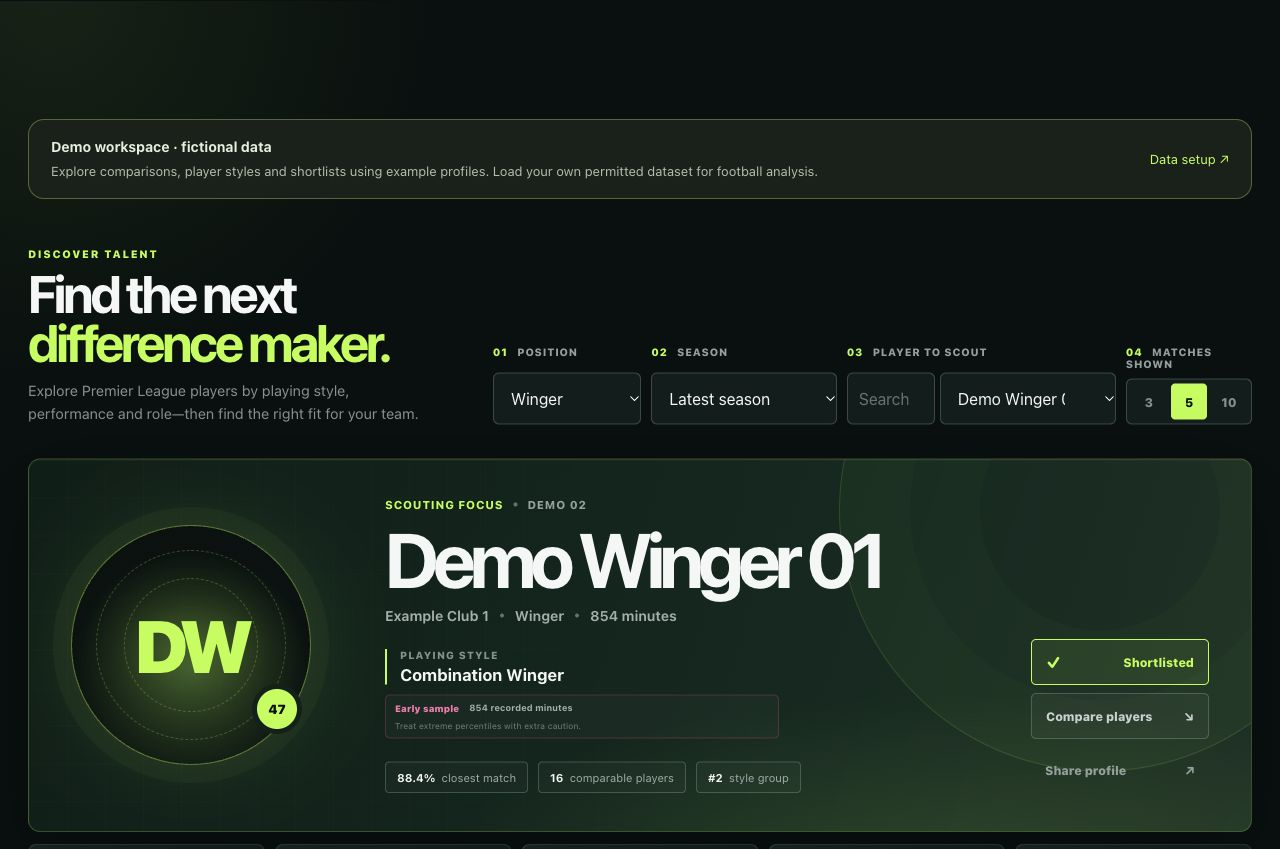
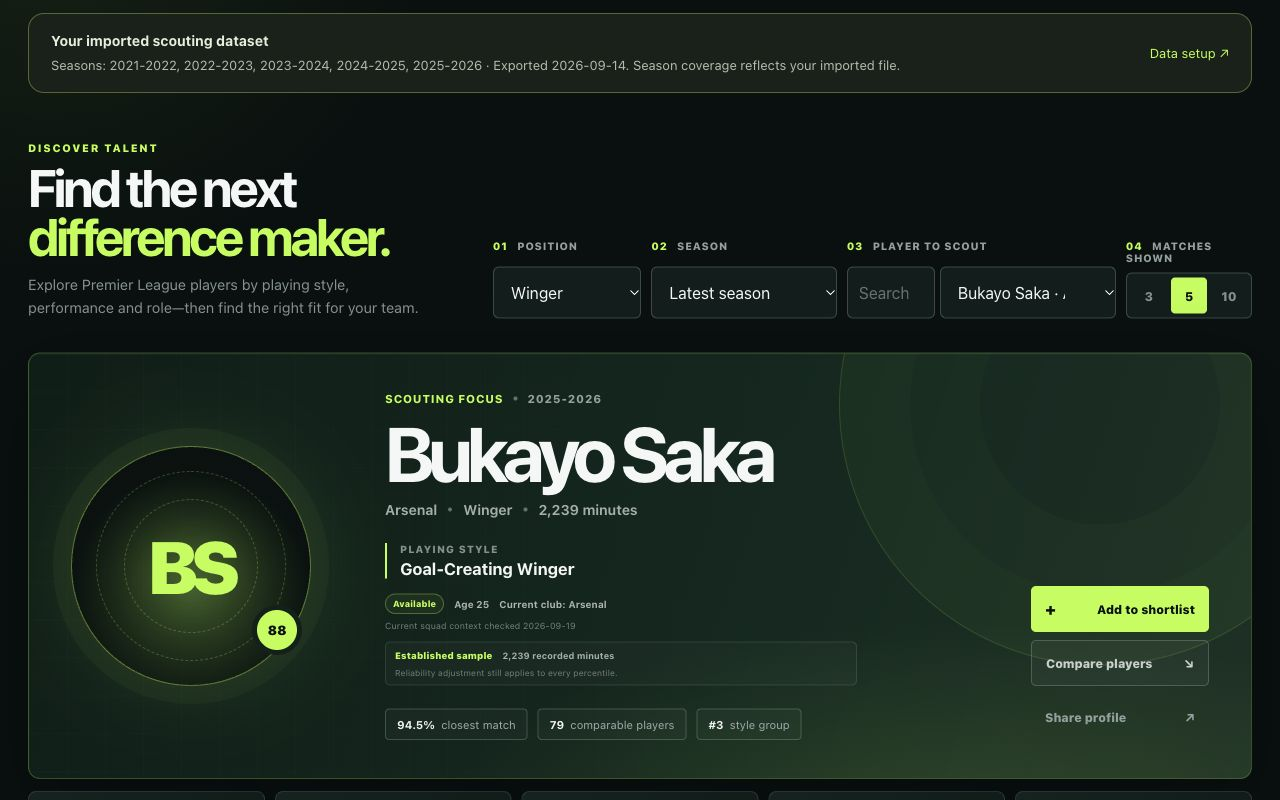
Demonstrate scouting workflow with dated real-player screenshots

diff --git a/README.md b/README.md
@@ -4,7 +4,9 @@ SCOUT//LAB is an open-source scouting workspace for player comparisons, recruitm
 
 The public release starts with **128 fictional player-season profiles** across four positions and two demo seasons. These are original synthetic fixtures, not current Premier League statistics. Provider datasets, portraits and event files are not distributed with this release. You can import a compatible dataset you are permitted to use locally.
 
-![SCOUT//LAB demo workspace showing player selection and a player profile](docs/screenshots/01-player-profile.jpg)
+The screenshots below show a separate local installation using real-player data from the preserved **2025/26 snapshot**. A fresh clone opens with fictional demo profiles; the photographed screens are not the bundled demo dataset or live 2026/27 coverage.
+
+![SCOUT//LAB local workspace showing Bukayo Saka's 2025/26 player profile](docs/screenshots/01-player-profile.jpg)
 
 ## Run on your device
 
@@ -23,33 +25,35 @@ For a production build, run `npm run build` followed by `npm run start -- --port
 
 ## Try the scouting workflow
 
-These screenshots were captured from the local app in **demo mode**. All players, clubs and statistics shown are fictional. You can follow the same steps immediately after installation.
+These screenshots were captured from the local app with an imported dataset, using **Bukayo Saka and Mohamed Salah** as examples. Performance data shown covers **2025/26**; any displayed squad context was last checked **19 September 2026** and may be stale. Statistical source: [Understat](https://understat.com/). Supplemental squad context: [Fantasy Premier League](https://fantasy.premierleague.com/). Screenshots illustrate the interface; publication permissions for these sources remain unresolved, as recorded in [the source review](docs/permissions/STATUS.md).
+
+You can follow the same workflow with fictional players immediately after installation. Real-player examples require your own compatible, permitted import; those datasets are not included in this repository.
 
 ### 1. Choose a player
 
-Select **Winger**, keep **Latest season**, and choose **Demo Winger 01** in the player selector. The profile shows their playing-style label, minutes and strongest metrics. Set **Matches shown** to 3, 5 or 10 to control the recommendation list. The workspace preview above shows these controls.
+Select **Winger** and **2025-2026**, then choose **Bukayo Saka** in the player selector if your imported dataset contains him. The profile shows his playing-style label, minutes and strongest metrics. Set **Matches shown** to 3, 5 or 10 to control the recommendation list. The workspace preview above shows these controls. In demo mode, use **Demo Winger 01** instead.
 
 ### 2. Find candidates for a recruitment brief
 
 Open **Finder** in the navigation. Choose a priority metric such as **Key passes**, then set a minimum percentile and minutes threshold. Add club or playing-style filters to narrow the pool. Click a player's name to scout them, **+ Save** to shortlist them, or **+ Save this search** to revisit the filters later.
 
-![Recruitment finder with metric, percentile and minutes filters and candidate cards](docs/screenshots/02-recruitment-finder.jpg)
+![2025/26 recruitment finder showing real-player candidates including Rayan Cherki, Jeremy Doku and Bukayo Saka](docs/screenshots/02-recruitment-finder.jpg)
 
 For another view of fit, use **Balanced role**, **Goal threat**, **Chance creator** or **Link player** above the finder. These priorities change similarity rankings; they do not change the underlying recorded or imported values.
 
 ### 3. Compare player profiles
 
-Open **Compare**, then select a recommendation in **Compare with**. Pink marks the selected player and green marks the comparison. The radar and table show percentiles within the selected season and position; the difference bars highlight where the profiles diverge. Similarity describes a statistical match, not an overall player-quality score.
+Open **Compare**, then select a recommendation in **Compare with**. The screenshot compares **Bukayo Saka (pink)** with **Mohamed Salah (green)**. The radar and table show percentiles within the selected season and position; the difference bars highlight where the profiles diverge. Similarity describes a statistical match, not an overall player-quality score.
 
-![Player comparison with percentile table, pink and green radar overlays and metric differences](docs/screenshots/03-radar-comparison.jpg)
+![Bukayo Saka and Mohamed Salah compared using 2025/26 position-relative percentiles and radar overlays](docs/screenshots/03-radar-comparison.jpg)
 
 ### 4. Build a shortlist and record your decision
 
-Save two players, then open **Shortlist**. Set a decision status (**Watching**, **Review** or **Priority**) and add scout notes. With at least two players, a comparison matrix appears. Use **Export CSV** for a spreadsheet or **Print report** for a printable view. Saves and notes persist in the same browser; they are not synced between devices.
+Save two players, then open **Shortlist**. This example saves **Saka and Salah**, sets Salah's status to **Review**, and adds an illustrative scout note. Set a decision status (**Watching**, **Review** or **Priority**) and add your own notes. With at least two players, a comparison matrix appears. Use **Export CSV** for a spreadsheet or **Print report** for a printable view. Saves and notes persist in the same browser; they are not synced between devices.
 
-![Two shortlisted demo players with a priority decision, example scout note and comparison matrix](docs/screenshots/04-shortlist.jpg)
+![Mohamed Salah and Bukayo Saka shortlisted with an example review note and percentile comparison matrix](docs/screenshots/04-shortlist.jpg)
 
-Shot maps, portraits and action maps require suitable optional data assets. The demo leaves unavailable observations empty rather than inventing them. To move beyond the fictional walkthrough, follow the import instructions below.
+These captures use initials rather than player photographs. Shot maps, portraits and action maps require suitable optional data assets. The demo leaves unavailable observations empty rather than inventing them. Follow the import instructions below to use a dataset you are permitted to use.
 
 ## Use your own dataset
 
